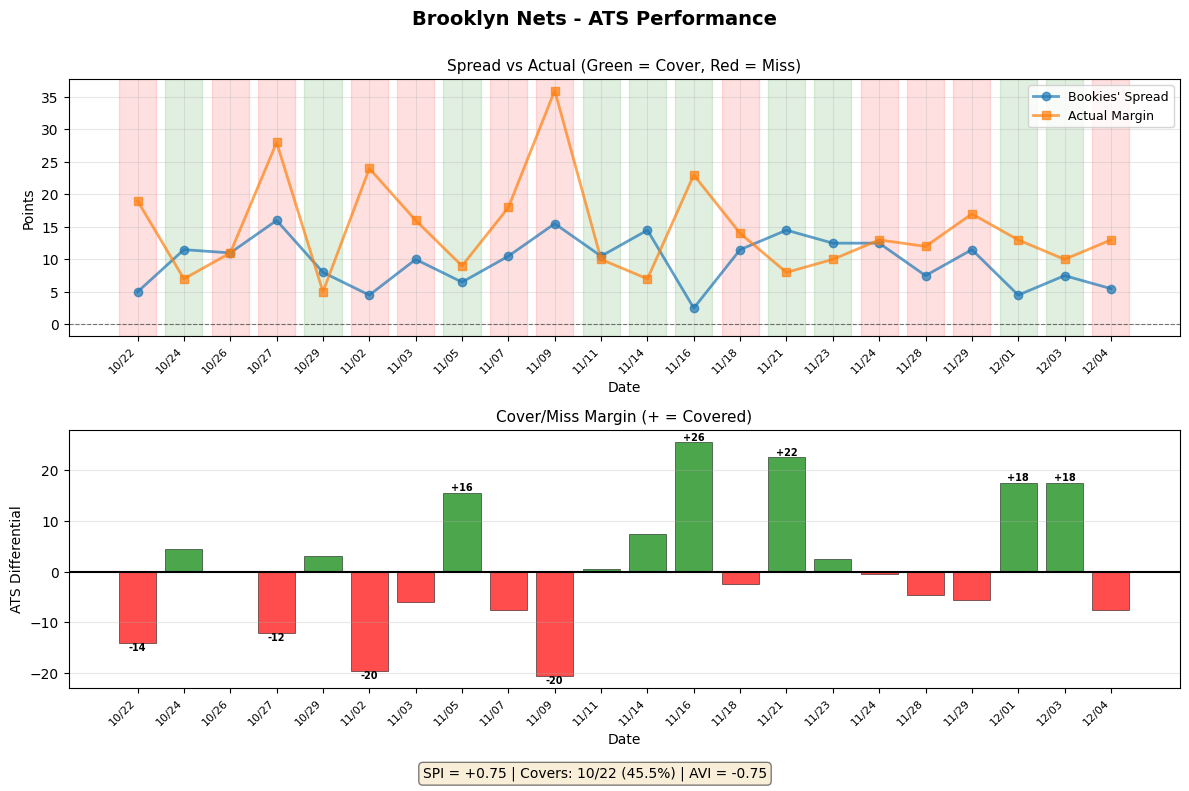
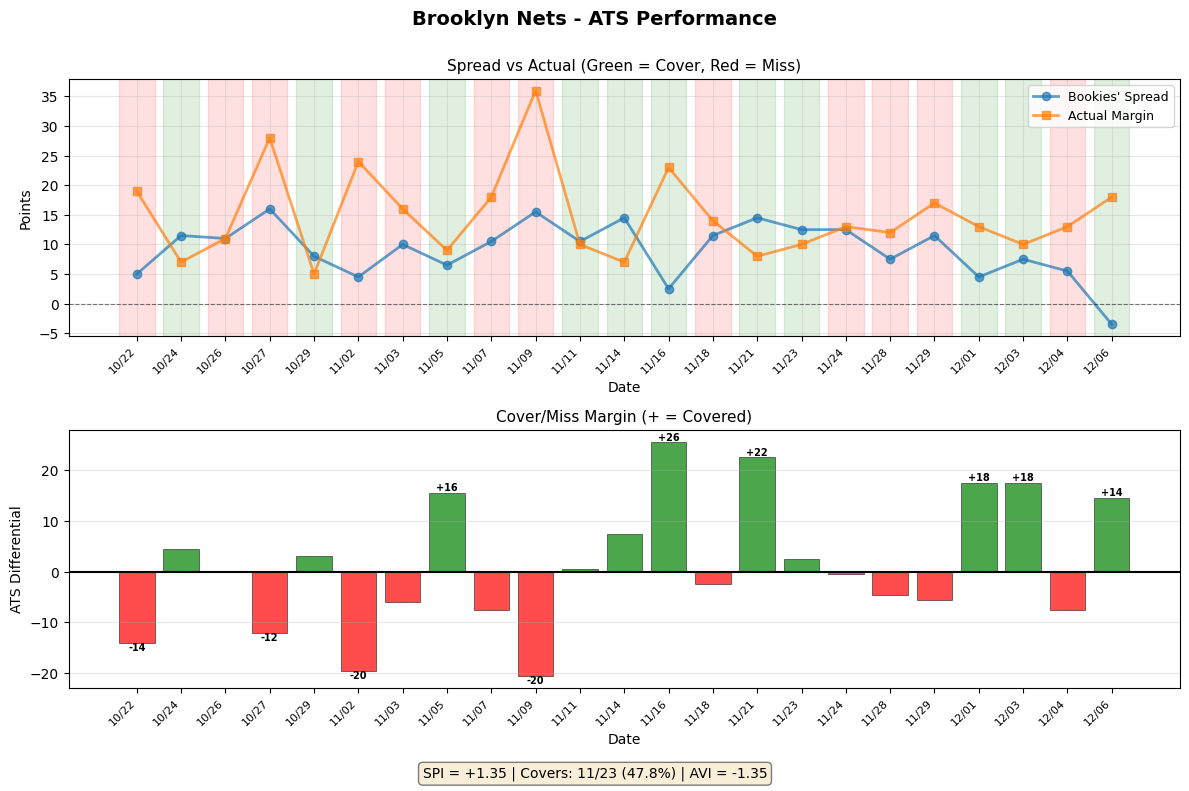
Update nbabetinfo page with ATS plots [2025-12-07 01:05 UTC]

diff --git a/index.html b/index.html
@@ -193,11 +193,11 @@
           </tr>
         </thead>
         <tbody>
-          <tr><td class='time'>2:00 PM PT</td><td class='team-name'>New Orleans Pelicans (+3.5)</td><td class='metric'>-1.85</td><td class='metric'>+0.50</td><td class='metric highlight'>-1.95</td><td class='metric'>56.5%</td><td class='team-name'>Brooklyn Nets (-3.5)</td><td class='metric'>+0.75</td><td class='metric na highlight'>—</td><td class='metric'>+0.75</td><td class='metric'>45.5%</td></tr>
+          <tr><td class='time'>2:00 PM PT</td><td class='team-name'>New Orleans Pelicans (+3.5)</td><td class='metric'>-2.38</td><td class='metric'>+0.50</td><td class='metric highlight'>-2.50</td><td class='metric'>54.2%</td><td class='team-name'>Brooklyn Nets (-3.5)</td><td class='metric'>+1.35</td><td class='metric highlight'>+14.50</td><td class='metric'>+0.75</td><td class='metric'>47.8%</td></tr>
 <tr><td class='time'>4:00 PM PT</td><td class='team-name'>Atlanta Hawks (-9.5)</td><td class='metric'>+1.21</td><td class='metric highlight'>-4.27</td><td class='metric'>+5.85</td><td class='metric'>54.2%</td><td class='team-name'>Washington Wizards (+9.5)</td><td class='metric'>-5.93</td><td class='metric'>-26.50</td><td class='metric highlight warning'>-3.76</td><td class='metric warning'>28.6%</td></tr>
 <tr><td class='time'>4:30 PM PT</td><td class='team-name'>Milwaukee Bucks (+12.5)</td><td class='metric'>-2.71</td><td class='metric'>-5.18</td><td class='metric highlight'>-0.62</td><td class='metric'>41.7%</td><td class='team-name'>Detroit Pistons (-12.5)</td><td class='metric'>+1.09</td><td class='metric highlight'>-0.39</td><td class='metric'>+6.40</td><td class='metric'>56.5%</td></tr>
-<tr><td class='time'>4:30 PM PT</td><td class='team-name'>Golden State Warriors (+8.5)</td><td class='metric'>-1.98</td><td class='metric'>-3.07</td><td class='metric highlight'>-0.28</td><td class='metric'>47.8%</td><td class='team-name'>Cleveland Cavaliers (-8.5)</td><td class='metric'>-2.73</td><td class='metric highlight'>-3.19</td><td class='metric'>+0.50</td><td class='metric'>33.3%</td></tr>
-<tr><td class='time'>5:00 PM PT</td><td class='team-name'>Los Angeles Clippers (+9.5)</td><td class='metric'>-6.15</td><td class='metric'>-9.17</td><td class='metric highlight warning'>-2.86</td><td class='metric warning'>26.1%</td><td class='team-name'>Minnesota Timberwolves (-9.5)</td><td class='metric'>-0.84</td><td class='metric highlight'>+0.83</td><td class='metric'>-8.38</td><td class='metric'>36.4%</td></tr>
+<tr><td class='time'>4:30 PM PT</td><td class='team-name'>Golden State Warriors (+9.5)</td><td class='metric'>-1.98</td><td class='metric'>-3.07</td><td class='metric highlight'>-0.28</td><td class='metric'>47.8%</td><td class='team-name'>Cleveland Cavaliers (-9.5)</td><td class='metric'>-2.73</td><td class='metric highlight'>-3.19</td><td class='metric'>+0.50</td><td class='metric'>33.3%</td></tr>
+<tr><td class='time'>5:00 PM PT</td><td class='team-name'>Los Angeles Clippers (+8.5)</td><td class='metric'>-6.15</td><td class='metric'>-9.17</td><td class='metric highlight warning'>-2.86</td><td class='metric warning'>26.1%</td><td class='team-name'>Minnesota Timberwolves (-8.5)</td><td class='metric'>-0.84</td><td class='metric highlight'>+0.83</td><td class='metric'>-8.38</td><td class='metric'>36.4%</td></tr>
 <tr><td class='time'>5:00 PM PT</td><td class='team-name'>Sacramento Kings (+8.5)</td><td class='metric'>-5.45</td><td class='metric'>-4.17</td><td class='metric highlight warning'>-5.66</td><td class='metric warning'>31.8%</td><td class='team-name'>Miami Heat (-8.5)</td><td class='metric'>+5.24</td><td class='metric highlight'>-0.50</td><td class='metric'>+9.65</td><td class='metric'>60.9%</td></tr>
 <tr><td class='time'>5:30 PM PT</td><td class='team-name'>Houston Rockets (-7.5)</td><td class='metric'>+4.75</td><td class='metric highlight strong'>+4.56</td><td class='metric'>+6.50</td><td class='metric strong'>70.0%</td><td class='team-name'>Dallas Mavericks (+7.5)</td><td class='metric'>-1.21</td><td class='metric'>-10.86</td><td class='metric highlight'>+2.76</td><td class='metric'>45.8%</td></tr>
         </tbody>
